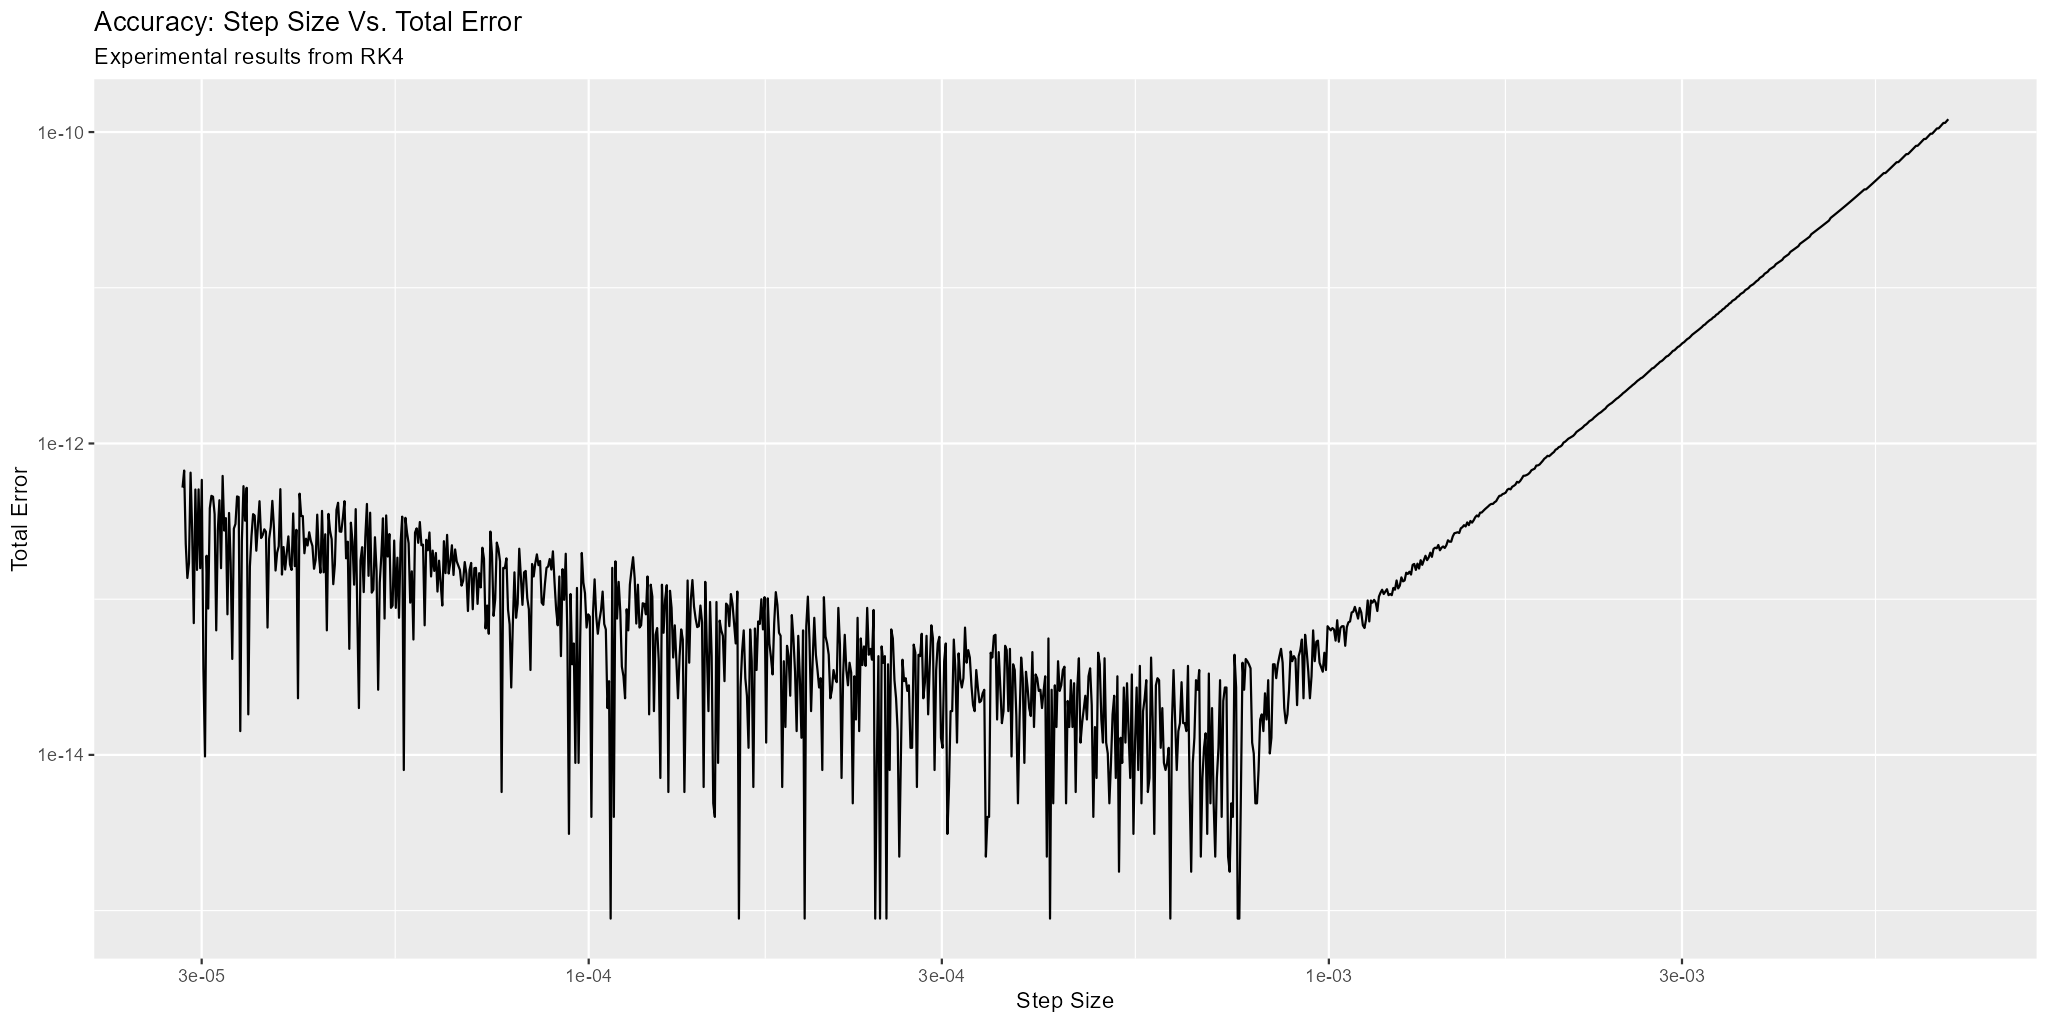
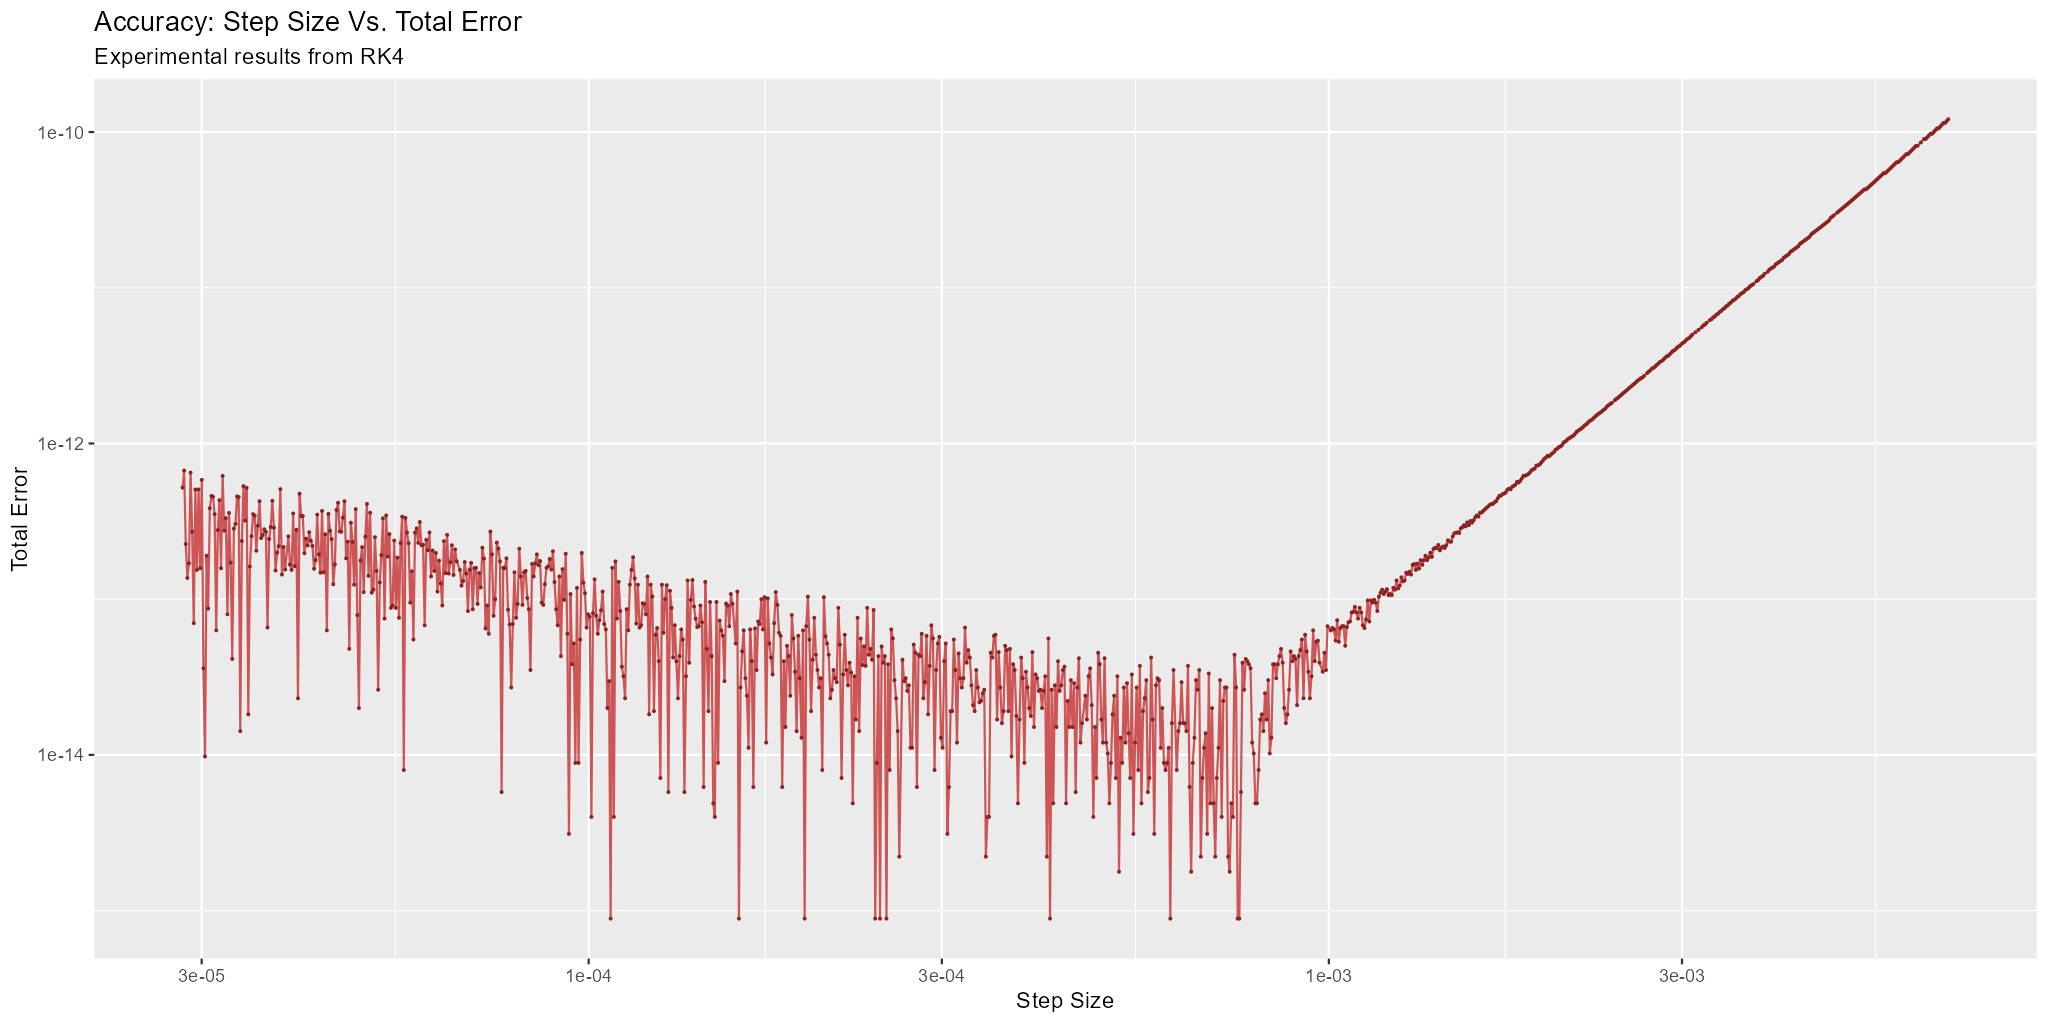
Changed total color

diff --git a/docs/ex_step_too_far.html b/docs/ex_step_too_far.html
@@ -3,7 +3,7 @@
 "http://www.w3.org/TR/xhtml1/DTD/xhtml1-strict.dtd">
 <html xmlns="http://www.w3.org/1999/xhtml" lang="en" xml:lang="en">
 <head>
-<!-- 2025-08-21 Thu 12:20 -->
+<!-- 2025-08-22 Fri 13:04 -->
 <meta http-equiv="Content-Type" content="text/html;charset=utf-8" />
 <meta name="viewport" content="width=1024, initial-scale=1" />
 <title>Runge-Kutta Step Size and Accuracy</title>
@@ -267,12 +267,12 @@
 
 <tr>
 <td class="org-right"><b>Updated:</b></td>
-<td class="org-left"><i>2025-08-21 12:19:59</i></td>
+<td class="org-left"><i>2025-08-22 13:04:20</i></td>
 </tr>
 
 <tr>
 <td class="org-right"><b>Generated:</b></td>
-<td class="org-left"><i>2025-08-21 12:20:00</i></td>
+<td class="org-left"><i>2025-08-22 13:04:21</i></td>
 </tr>
 </tbody>
 </table>
@@ -302,7 +302,7 @@ The code for this example is found in <a href="https://github.com/richmit/MRKISS
 Additionally the code may be found at the end of this document in the section <a href="#full-code">Full Code Listing</a>.
 </p>
 
-<div class="org" id="org5bdd595">
+<div class="org" id="org0821fe5">
 <p>
 In this example we solve a simple equation with various step sizes in order to observe the relationship between step size and
 accuracy.
@@ -335,7 +335,7 @@ Here is a log-log plot of our measured results:
 </p>
 
 
-<div id="org7c0a408" class="figure">
+<div id="org029b5b2" class="figure">
 <p><img src="pics/step_too_far.png" alt="step_too_far.png" width="90%" align="center" />
 </p>
 </div>
@@ -346,7 +346,7 @@ something like this:
 </p>
 
 
-<div id="orgbb8c13d" class="figure">
+<div id="orgbd93ae8" class="figure">
 <p><img src="pics/step_too_far_mean.png" alt="step_too_far_mean.png" width="90%" align="center" />
 </p>
 </div>
@@ -357,7 +357,7 @@ While it is not always the case, it's a pretty common occurrence to see higher v
 </p>
 
 
-<div id="org13d40dc" class="figure">
+<div id="org84d2e64" class="figure">
 <p><img src="pics/step_too_far_trdst.png" alt="step_too_far_trdst.png" width="90%" align="center" />
 </p>
 </div>
@@ -369,7 +369,7 @@ on \(t\) round-off:
 </p>
 
 
-<div id="org6e9e707" class="figure">
+<div id="org6ff79ba" class="figure">
 <p><img src="pics/step_too_far_tfit.png" alt="step_too_far_tfit.png" width="90%" align="center" />
 </p>
 </div>
@@ -448,7 +448,7 @@ The images were produced with R.
 
 <span style="color: #ffa500;"># </span><span style="color: #ff7f24;">Plot the raw results.</span>
 gp <span style="color: #8470ff; font-weight: bold;">&lt;-</span> ggplot(solDat) +
-  geom_line( aes(x=delta, y=erry)) +
+  geom_line( aes(x=delta, y=erry), col=<span style="color: #fa8072;">'indianred3'</span>) +
   scale_y_log10() +
   scale_x_log10() +
   labs(title=<span style="color: #fa8072;">'Accuracy: Step Size Vs. Total Error'</span>, 
@@ -512,14 +512,14 @@ gp <span style="color: #8470ff; font-weight: bold;">&lt;-</span> ggplot(data=sol
   geom_line(aes(y=erryattre, col=<span style="color: #fa8072;">'Mean Truncation Error'</span>), linewidth=5, alpha=0.7) +
   geom_line(aes(y=erryatroe, col=<span style="color: #fa8072;">'Mean Round-off Error'</span>), linewidth=5, alpha=0.7) +
   geom_line(aes(y=erryattoe, col=<span style="color: #fa8072;">'Mean Total Error'</span>), linewidth=3) +
-  geom_point(aes(y=erryat, col=<span style="color: #fa8072;">'True Error'</span>), size=0.5) +
+  geom_point(aes(y=erryat, col=<span style="color: #fa8072;">'Total Error'</span>), size=0.5) +
   scale_y_log10(limits=range(solDat$erryat)) +
   scale_x_log10() +
   scale_colour_manual(name=<span style="color: #fa8072;">'Error Type'</span>, 
                       values=c(<span style="color: #fa8072;">'Mean Total Error'</span>      = <span style="color: #fa8072;">'darkorchid3'</span>,
                                <span style="color: #fa8072;">'Mean Truncation Error'</span> = <span style="color: #fa8072;">'goldenrod'</span>,
                                <span style="color: #fa8072;">'Mean Round-off Error'</span>  = <span style="color: #fa8072;">'darkolivegreen3'</span>,                               
-                               <span style="color: #fa8072;">'True Error'</span>            = <span style="color: #fa8072;">'indianred3'</span>)) +
+                               <span style="color: #fa8072;">'Total Error'</span>           = <span style="color: #fa8072;">'indianred3'</span>)) +
   labs(title=<span style="color: #fa8072;">'Error Vs. Step Size'</span>, 
        subtitle=<span style="color: #fa8072;">'Experimental results from RK4 illustrating total error as a sum of round-off and truncation errors.'</span>, 
        x=<span style="color: #fa8072;">'Step Size'</span>, y=<span style="color: #fa8072;">'Errors'</span>)
@@ -536,12 +536,12 @@ troeDat <span style="color: #8470ff; font-weight: bold;">&lt;-</span> troeDat <s
 
 gp <span style="color: #8470ff; font-weight: bold;">&lt;-</span> ggplot(data=troeDat, aes(x=x)) +
   geom_line(aes(y=yf, col=<span style="color: #fa8072;">'Mean Round-off Error'</span>), alpha=0.7, linewidth=10) +
-  geom_point(aes(y=y, col=<span style="color: #fa8072;">'True Error'</span>), size=0.5) +
+  geom_point(aes(y=y, col=<span style="color: #fa8072;">'Total Error'</span>), size=0.5) +
   scale_y_log10() +
   scale_x_log10() +
   scale_colour_manual(name=<span style="color: #fa8072;">'Error Type'</span>, 
                       values=c(<span style="color: #fa8072;">'Mean Round-off Error'</span>  = <span style="color: #fa8072;">'darkolivegreen3'</span>,                               
-                               <span style="color: #fa8072;">'True Error'</span>            = <span style="color: #fa8072;">'indianred3'</span>)) +
+                               <span style="color: #fa8072;">'Total Error'</span>           = <span style="color: #fa8072;">'indianred3'</span>)) +
   labs(title=<span style="color: #fa8072;">'Independent Variable Error Vs. Step Size'</span>, 
        subtitle=<span style="color: #fa8072;">'Experimental results from RK4.'</span>, 
        x=<span style="color: #fa8072;">'Step Size'</span>, y=<span style="color: #fa8072;">'Errors'</span>)
